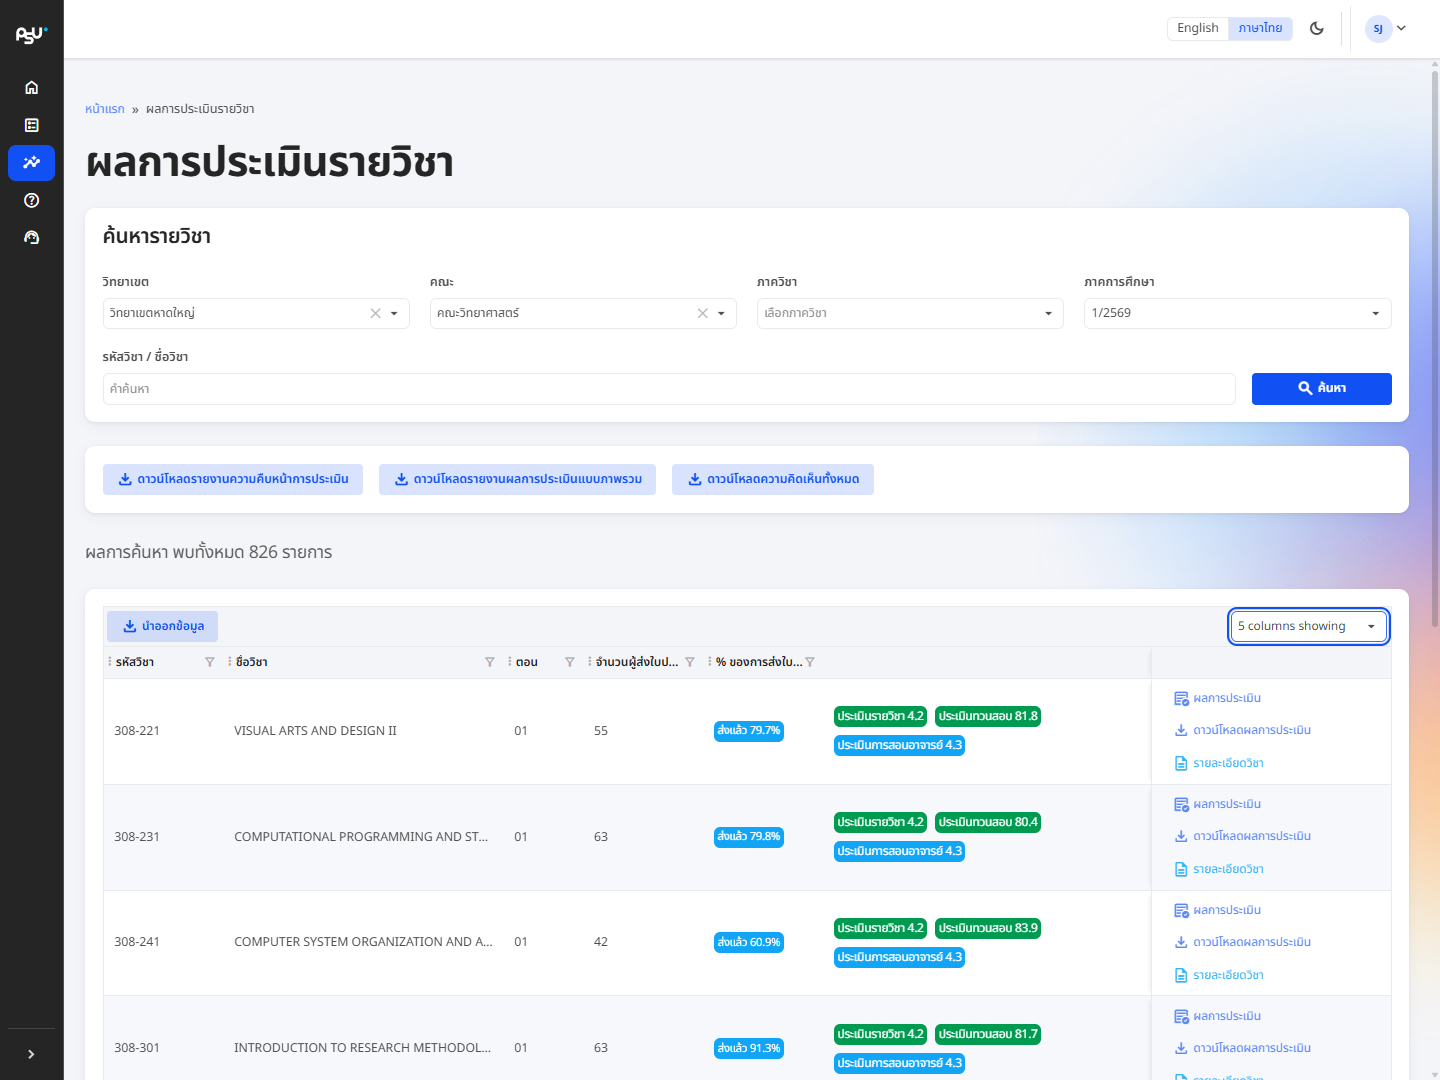
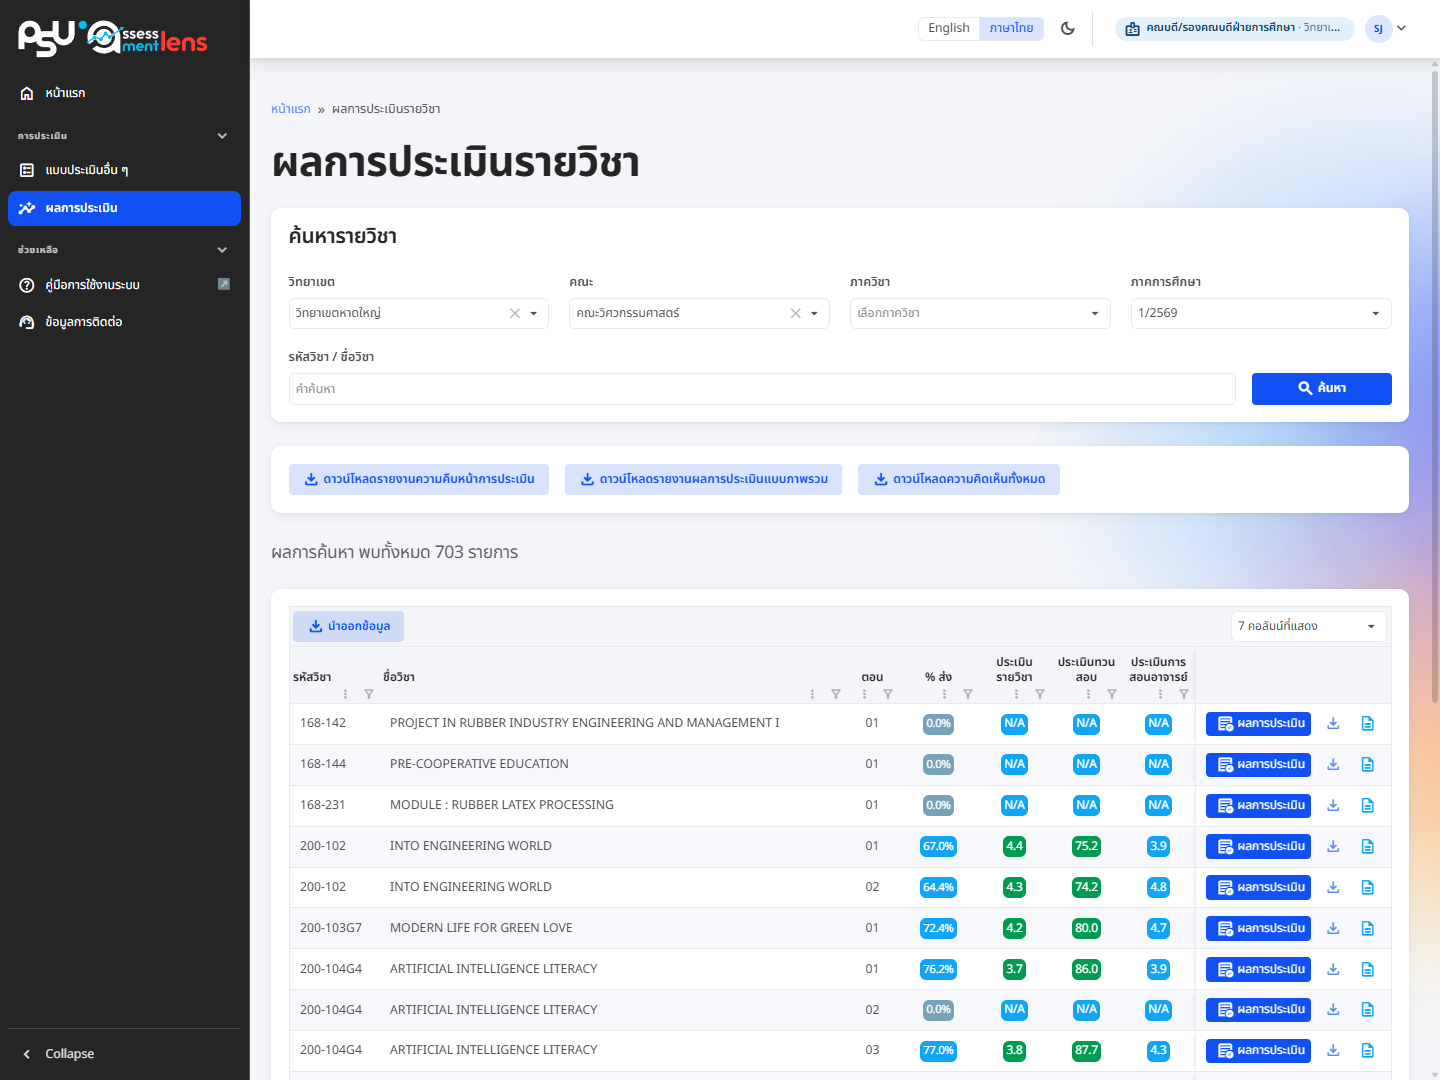
docs: refresh result-page screenshots for the new grid header and add sorting
Recapture v2-executive-result.png (course result search, now the 2026-09
column set with sortable headers and bottom-right column icons) and
v2-lecturer-result-table.png (matrix table view) from the live site at
1440x1080, Thai, with the override chip hidden, initials replaced, and every
score, percentage, bar and response count replaced by placeholder values.

executive/undefined-1.md and en/executive/course-results.md: list the
columns the table actually shows, and explain header sorting, the filter
funnel, the column picker, and that column settings are remembered.

diff --git a/executive/undefined-1.md b/executive/undefined-1.md
@@ -4,7 +4,9 @@
 
 ท่านดูผลการประเมินรายวิชาทั้งหมดที่อยู่ในสังกัดของท่านได้จากหน้านี้ ค้นหาได้สะดวกด้วยตัวกรอง วิทยาเขต คณะ ภาควิชา ภาคการศึกษา และคำค้นหา (รหัสวิชาหรือชื่อวิชา)
 
-ผลการค้นหาจะแสดงเป็นตาราง บอกรหัสวิชา ชื่อวิชา ตอน ภาคการศึกษา ปีการศึกษา จำนวนผู้ทำใบประเมิน สัดส่วน % ของการทำใบประเมิน และคะแนนเฉลี่ยของแต่ละประเภท อีกทั้งเจาะดูรายละเอียดของแต่ละวิชาได้ เช่น สังกัด อาจารย์ผู้สอน และผลลัพธ์การเรียนรู้ของรายวิชา (CLO)
+ผลการค้นหาจะแสดงเป็นตาราง บอกรหัสวิชา ชื่อวิชา ตอน สัดส่วน % ของการส่งใบประเมิน และคะแนนเฉลี่ยของแต่ละประเภท (ประเมินรายวิชา ทวนสอบ และการสอนอาจารย์) อีกทั้งเจาะดูรายละเอียดของแต่ละวิชาได้ เช่น สังกัด อาจารย์ผู้สอน และผลลัพธ์การเรียนรู้ของรายวิชา (CLO)
+
+กดที่ชื่อคอลัมน์เพื่อเรียงลำดับ เช่น เรียงตาม % การส่งหรือคะแนนเฉลี่ยจากมากไปน้อย (กดซ้ำเพื่อสลับทิศทาง กดครั้งที่สามเพื่อยกเลิก) ไอคอนกรวยใต้ชื่อคอลัมน์ใช้กรองข้อมูลในคอลัมน์นั้น และปุ่ม "คอลัมน์ที่แสดง" มุมขวาบนของตารางใช้เปิดคอลัมน์เพิ่ม เช่น ภาค/ปีการศึกษา จำนวนผู้ลงทะเบียน และจำนวนผู้ส่งใบประเมิน ระบบจดจำการตั้งค่าคอลัมน์ไว้ให้ในเครื่องของท่าน
 
 จากตรงนี้ท่านกดดูผลในรูปแบบตาราง หรือดาวน์โหลดเป็นไฟล์ Excel (.xlsx) ก็ได้ ซึ่งหน้าตาเหมือนกับหน้าผลการประเมินของอาจารย์
 

diff --git a/en/executive/course-results.md b/en/executive/course-results.md
@@ -4,7 +4,9 @@
 
 This page lets you view the evaluation results of every course within your scope. Search conveniently using the campus, faculty, department and semester filters together with a keyword (course code or course name).
 
-Results appear as a table showing the course code, course name, section, semester, academic year, number of respondents, submission percentage, and the average score for each evaluation type. You can also drill into an individual course for details such as its unit, teaching lecturers, and Course Learning Outcomes (CLO).
+Results appear as a table showing the course code, course name, section, submission percentage, and the average score for each evaluation type (course, learning validation, and lecturer). You can also drill into an individual course for details such as its unit, teaching lecturers, and Course Learning Outcomes (CLO).
+
+Click a column title to sort, for example by submission percentage or average score from highest to lowest (click again to reverse, a third time to clear). The funnel icon under a title filters that column, and the "columns showing" button at the top right of the table reveals extra columns such as semester/year, enrolled students, and number of respondents. Your column settings are remembered on this device.
 
 From here you can view the results in table form, or download them as an Excel file (.xlsx) — the same layout the lecturer result page produces.
 
